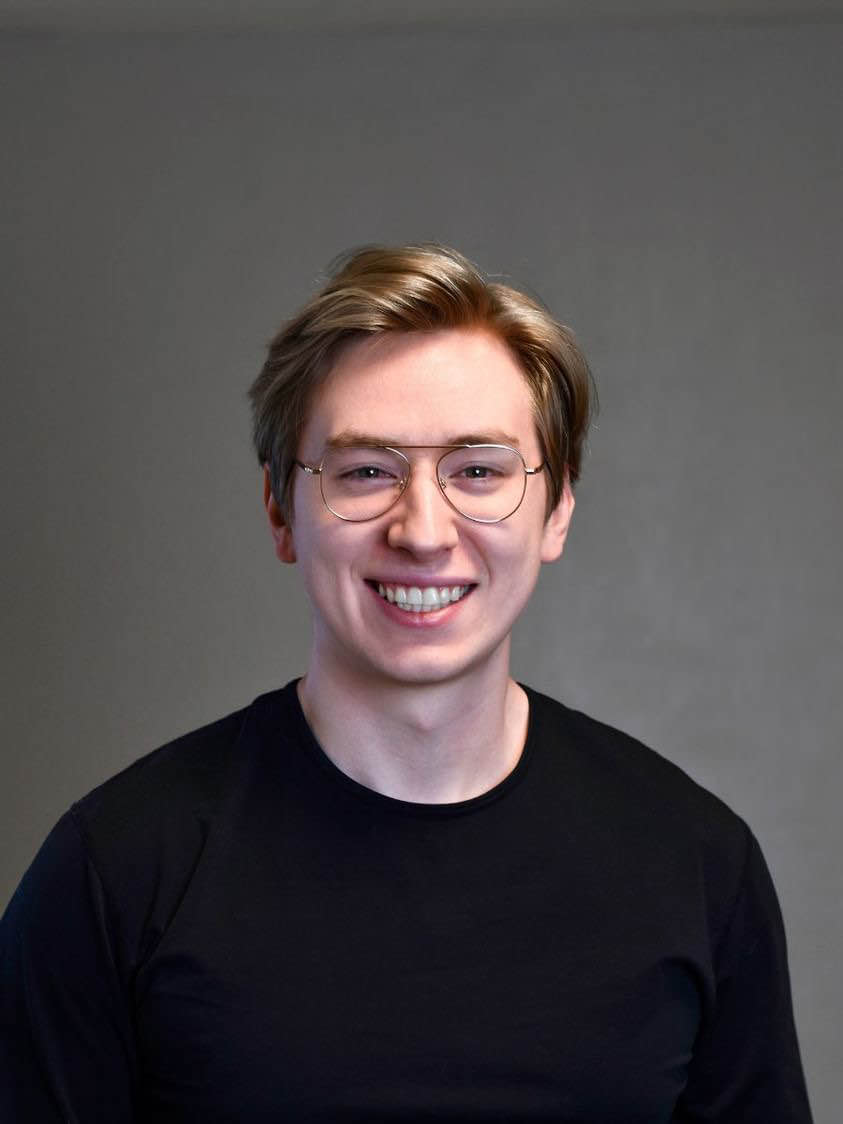
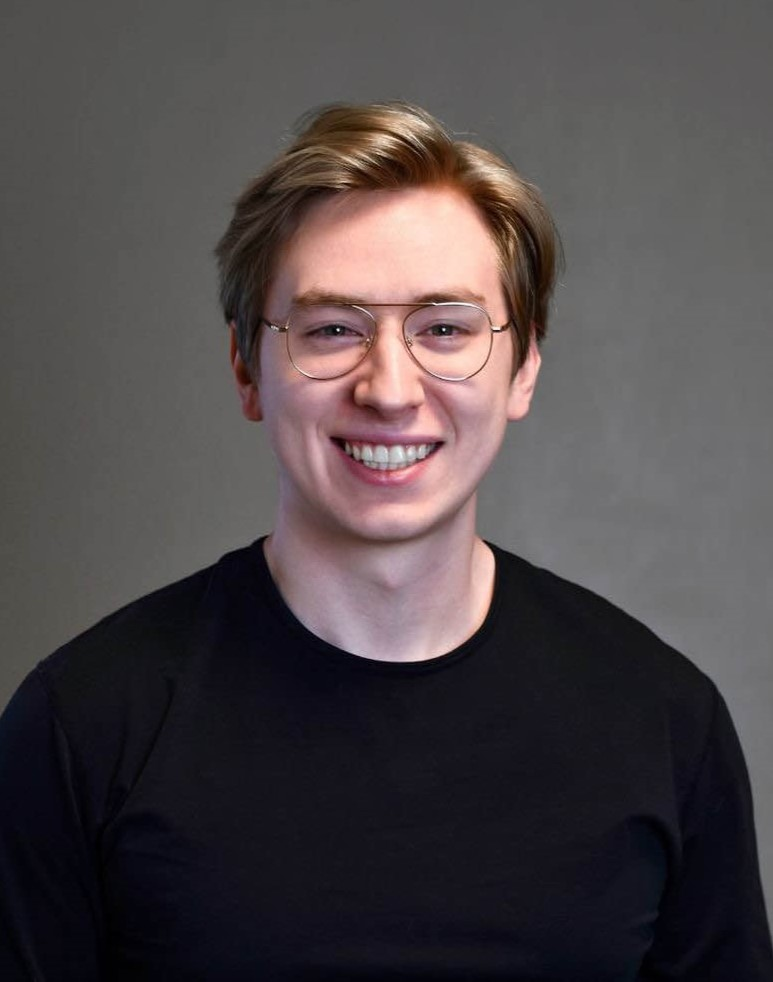
final commit for the day

Changed region(s): [[0.0, 0.0916, 1.0, 1.0]]

diff --git a/src/views/AboutView.vue b/src/views/AboutView.vue
@@ -1,8 +1,12 @@
 <template>
   <HeaderComp/>
+  <div class="img-container">
+    <img class="profile-picture" src="../assets/Profile-Picture-2.jpg">
+  </div>
+    
   <div class="about-container">
-    <h1 class="about-me">About Me</h1>
-    <h2 class="characteristics">Junior Software Developer | Luthier | Woodworker | Violinist</h2>
+    
+    <h2 class="characteristics">Software Developer | Luthier | Woodworker | Violinist</h2>
     <p>
 
     </p>
@@ -32,5 +36,14 @@ export default {
   justify-content: center;
   align-items: center;
   flex-direction: column;
+}
+.profile-picture {
+  height: 300px;
+  
+}
+.img-container {
+  display: flex;
+  justify-content: center;
+  align-items: center;
 }
 </style>

diff --git a/src/assets/main.css b/src/assets/main.css
@@ -1,35 +1,2 @@
 @import './base.css';
 
-/* #app {
-  max-width: 1280px;
-  margin: 0 auto;
-  padding: 2rem;
-  font-weight: normal;
-}
-
-a,
-.green {
-  text-decoration: none;
-  color: hsla(160, 100%, 37%, 1);
-  transition: 0.4s;
-  padding: 3px;
-}
-
-@media (hover: hover) {
-  a:hover {
-    background-color: hsla(160, 100%, 37%, 0.2);
-  }
-}
-
-@media (min-width: 1024px) {
-  body {
-    display: flex;
-    place-items: center;
-  }
-
-  #app {
-    display: grid;
-    grid-template-columns: 1fr 1fr;
-    padding: 0 2rem;
-  }
-} */

diff --git a/src/views/HomeView.vue b/src/views/HomeView.vue
@@ -1,8 +1,7 @@
 <template>
   <HeaderComp/>
-  <h1>Seth Chesky</h1>
-  <h2>Junior Software Developer | Luthier | Violinist</h2>
   
+
 </template>
 
 <script>
